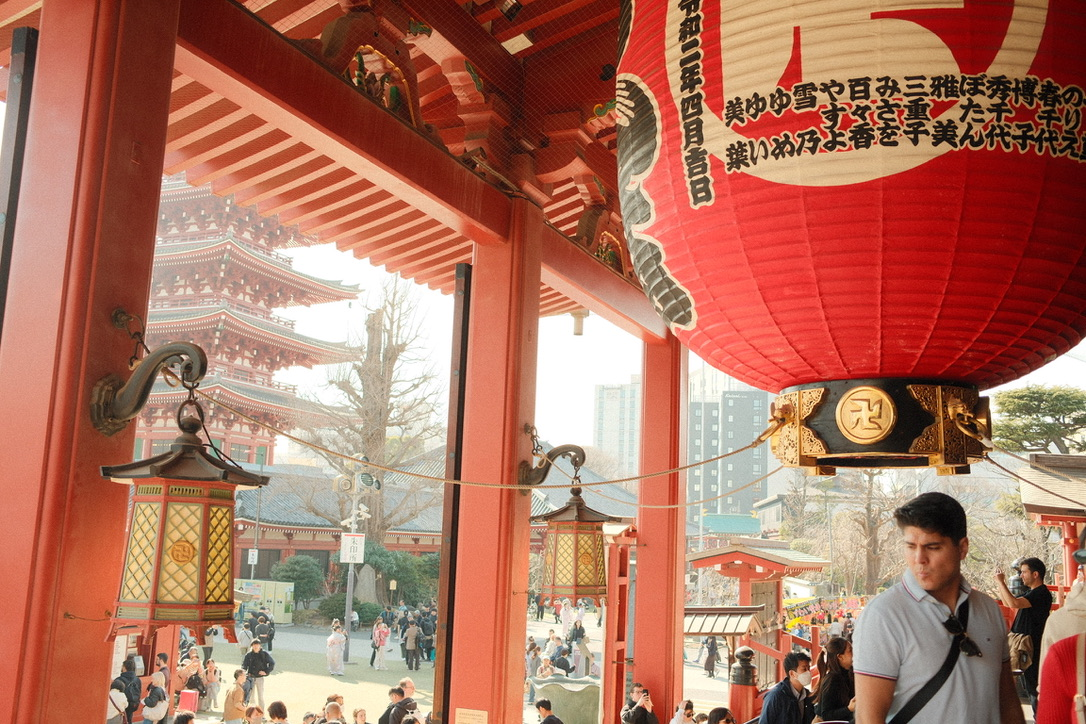
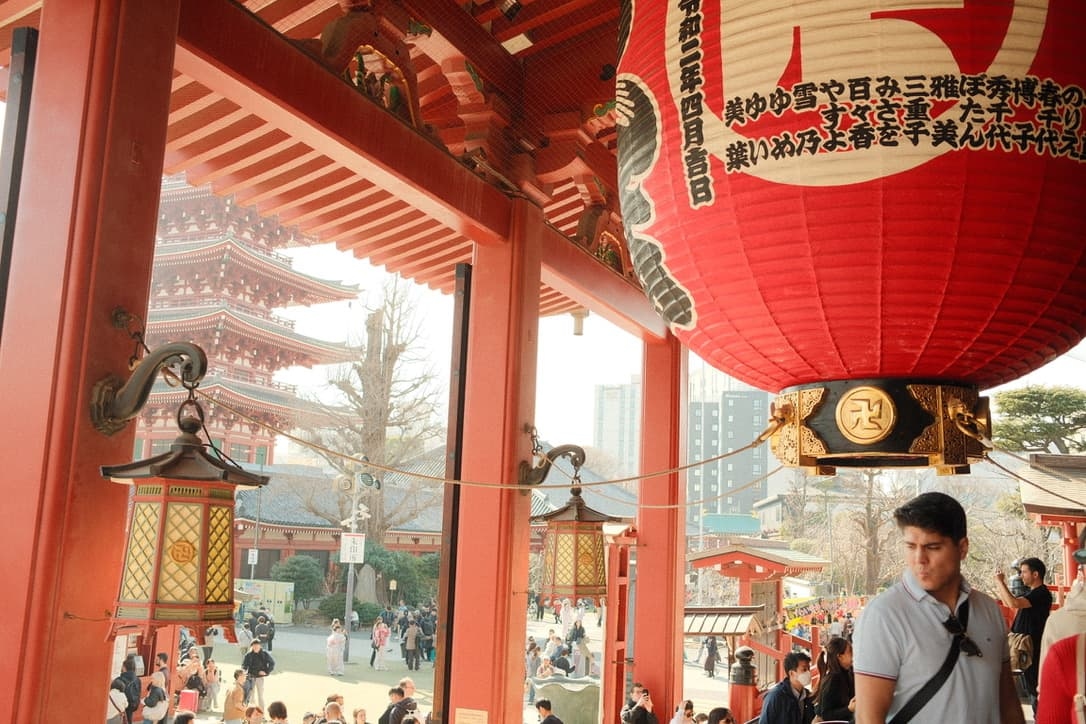
added lazy loading to aboutMe bottom images and lowered their quality

Changed region(s): [[0.7293, 0.1519, 0.8204, 0.2127], [0.7293, 0.8204, 0.7597, 0.8812], [0.7293, 0.1215, 0.7901, 0.1519]]

diff --git a/src/pages/AboutPage/AboutPage.tsx b/src/pages/AboutPage/AboutPage.tsx
@@ -79,12 +79,12 @@ function AboutPage() {
                 <MotionBox {...motionDivProps(0.12)} className="photographySection">
                     <Typography className="photographyBlurb">I also like photography! :-{')'}</Typography>
                     <Box className="photos">
-                        <img src="/images/photo4.webp" />
-                        <img src="/images/photo1.webp" />
-                        <img src="/images/photo2.webp" />
-                        <img src="/images/photo3.webp" />
-                        <img src="/images/photo5.webp" />
-                        <img src="/images/photo6.webp" />
+                        <img loading="lazy" src="/images/photo4.webp" />
+                        <img loading="lazy" src="/images/photo1.webp" />
+                        <img loading="lazy" src="/images/photo2.webp" />
+                        <img loading="lazy" src="/images/photo3.webp" />
+                        <img loading="lazy" src="/images/photo5.webp" />
+                        <img loading="lazy" src="/images/photo6.webp" />
                     </Box>
                 </MotionBox>
             </Stack>

diff --git a/src/pages/HomePage/components/ProjectCard/ProjectCard.tsx b/src/pages/HomePage/components/ProjectCard/ProjectCard.tsx
@@ -48,7 +48,6 @@ function ProjectCard(project: ProjectType) {
                 <AnimatePresence mode="wait">
                     {showGif === false ? (
                         <motion.img
-                            loading="lazy"
                             key="image"
                             src={`/images/${project.id}.webp`}
                             className={`${isHovered ? 'hovering' : ''} image`}
